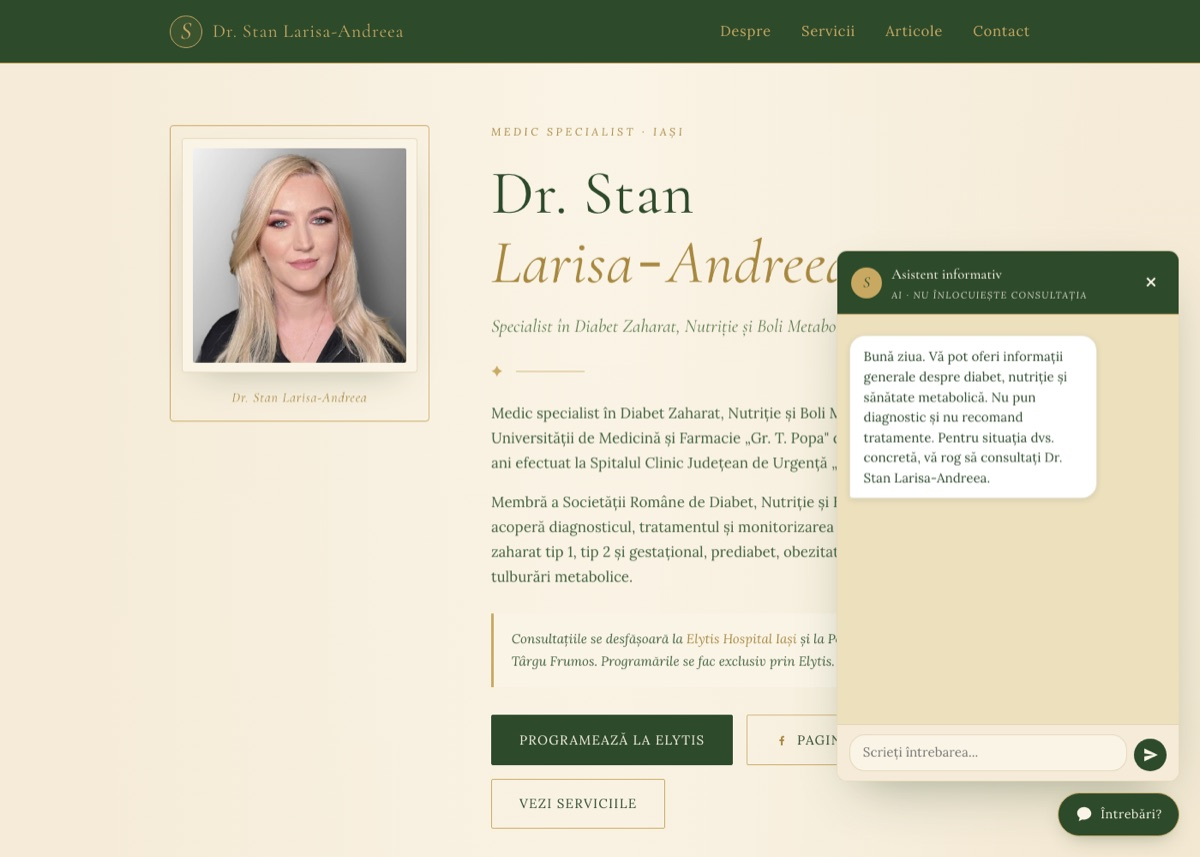
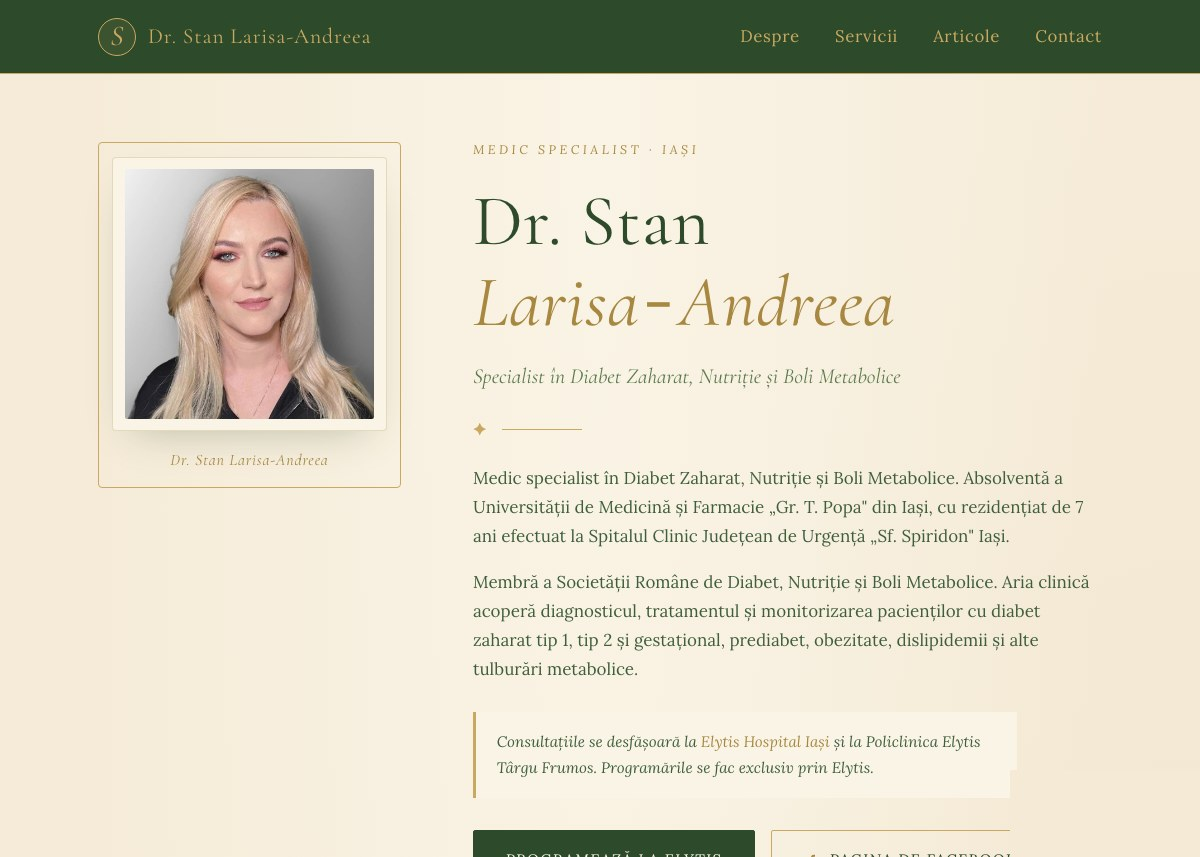
Add LolyTales to portfolio; refresh Dr Stan Larisa screenshot
New work card for lolytales.com. Replaced the Dr Stan Larisa-Andreea
screenshot with a clean capture (previous one showed the AI chat
widget open, obscuring content).

diff --git a/docs/index.html b/docs/index.html
@@ -432,6 +432,18 @@
                     <h4>Dr. Stan Larisa-Andreea</h4>
                     <p>Professional website for a diabetes, nutrition and metabolic-disease specialist in Romania. Online appointment booking, services overview, and a clinical articles section.</p>
                 </a>
+                <a class="work-card" href="https://www.lolytales.com" target="_blank" rel="noopener">
+                    <div class="work-screenshot">
+                        <img src="work/lolytales.jpg" alt="LolyTales AI bedtime stories app website" loading="lazy">
+                        <div class="work-overlay-badge">Visit Live Site &rarr;</div>
+                    </div>
+                    <div class="work-meta">
+                        <span class="work-tag">App / SaaS</span>
+                        <span class="work-result">AI-personalised stories</span>
+                    </div>
+                    <h4>LolyTales</h4>
+                    <p>Web app delivering AI-generated, personalised audio bedtime stories for children. Screen-free listening experience with a subscription flow and free-story funnel.</p>
+                </a>
             </div>
         </div>
     </section>

diff --git a/website/index.html b/website/index.html
@@ -432,6 +432,18 @@
                     <h4>Dr. Stan Larisa-Andreea</h4>
                     <p>Professional website for a diabetes, nutrition and metabolic-disease specialist in Romania. Online appointment booking, services overview, and a clinical articles section.</p>
                 </a>
+                <a class="work-card" href="https://www.lolytales.com" target="_blank" rel="noopener">
+                    <div class="work-screenshot">
+                        <img src="work/lolytales.jpg" alt="LolyTales AI bedtime stories app website" loading="lazy">
+                        <div class="work-overlay-badge">Visit Live Site &rarr;</div>
+                    </div>
+                    <div class="work-meta">
+                        <span class="work-tag">App / SaaS</span>
+                        <span class="work-result">AI-personalised stories</span>
+                    </div>
+                    <h4>LolyTales</h4>
+                    <p>Web app delivering AI-generated, personalised audio bedtime stories for children. Screen-free listening experience with a subscription flow and free-story funnel.</p>
+                </a>
             </div>
         </div>
     </section>
